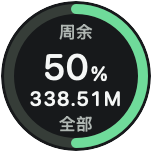
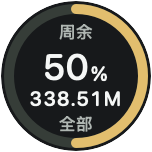
Add quota-dependent colors to the floating arc

Changed region(s): [[0.4474, 0.0263, 0.9737, 0.9737]]

diff --git a/Sources/Capsule.swift b/Sources/Capsule.swift
@@ -8,6 +8,41 @@ enum CapsuleTheme: String, CaseIterable {
     }
 }
 
+/// Approved dark/light quota colors, interpolated across the remaining fraction.
+/// Fixed stops are shared; drawing uses the existing bounded level animation.
+enum CapsuleQuotaColors {
+    private struct Stop {
+        let fraction: CGFloat
+        let red, green, blue: CGFloat
+        init(_ fraction: CGFloat, _ hex: UInt32) {
+            self.fraction = fraction
+            red = CGFloat((hex >> 16) & 255) / 255
+            green = CGFloat((hex >> 8) & 255) / 255
+            blue = CGFloat(hex & 255) / 255
+        }
+    }
+    private static let dark = [Stop(0.05, 0xEA6565), Stop(0.10, 0xEE786E),
+        Stop(0.25, 0xF09858), Stop(0.50, 0xE9BC60), Stop(0.75, 0xA5D76D), Stop(1, 0x35DE94)]
+    private static let light = [Stop(0.05, 0xD4474F), Stop(0.10, 0xD76053),
+        Stop(0.25, 0xC97432), Stop(0.50, 0xAF811B), Stop(0.75, 0x708F30), Stop(1, 0x009E68)]
+
+    static func color(for fraction: CGFloat, theme: CapsuleTheme) -> NSColor {
+        let stops = theme == .light ? light : dark
+        let value = fraction.isFinite ? min(1, max(0, fraction)) : 0
+        var lower = stops[0]
+        for upper in stops.dropFirst() {
+            if value <= upper.fraction {
+                let t = min(1, max(0, (value - lower.fraction) / (upper.fraction - lower.fraction)))
+                return NSColor(srgbRed: lower.red + (upper.red - lower.red) * t,
+                    green: lower.green + (upper.green - lower.green) * t,
+                    blue: lower.blue + (upper.blue - lower.blue) * t, alpha: 1)
+            }
+            lower = upper
+        }
+        return NSColor(srgbRed: lower.red, green: lower.green, blue: lower.blue, alpha: 1)
+    }
+}
+
 /// Only display values live here: no hidden controls, layout tree or history rows.
 final class CapsuleState {
     var changed: (() -> Void)?
@@ -96,18 +131,18 @@ final class CapsuleSurface: NSView {
     private var tracking: NSTrackingArea?
     private var accessibleActions: [String: CapsuleAction] = [:]
     private struct Palette {
-        let background, primary, secondary, accent, ring, track, border: NSColor
-        init(_ background: UInt32, _ primary: UInt32, _ secondary: UInt32, _ accent: UInt32, _ ring: UInt32, _ track: UInt32, _ border: UInt32) {
+        let background, primary, secondary, accent, track, border: NSColor
+        init(_ background: UInt32, _ primary: UInt32, _ secondary: UInt32, _ accent: UInt32, _ track: UInt32, _ border: UInt32) {
             func color(_ hex: UInt32) -> NSColor {
                 NSColor(srgbRed: CGFloat((hex >> 16) & 255) / 255, green: CGFloat((hex >> 8) & 255) / 255, blue: CGFloat(hex & 255) / 255, alpha: 1)
             }
             self.background = color(background); self.primary = color(primary)
             self.secondary = color(secondary); self.accent = color(accent)
-            self.ring = color(ring); self.track = color(track); self.border = color(border)
+            self.track = color(track); self.border = color(border)
         }
     }
-    private static let darkPalette = Palette(0x17191B, 0xF5F7F6, 0xADB6B2, 0x57E6B2, 0x35DE94, 0x343D38, 0x343A37)
-    private static let lightPalette = Palette(0xF5F5F2, 0x202823, 0x626C67, 0x047857, 0x009E68, 0xDCE3DD, 0xD6DDD7)
+    private static let darkPalette = Palette(0x17191B, 0xF5F7F6, 0xADB6B2, 0x57E6B2, 0x343D38, 0x343A37)
+    private static let lightPalette = Palette(0xF5F5F2, 0x202823, 0x626C67, 0x047857, 0xDCE3DD, 0xD6DDD7)
     private var palette: Palette { state.theme == .light ? Self.lightPalette : Self.darkPalette }
     private var mint: NSColor { palette.accent }
     private var ink: NSColor { palette.primary }
@@ -405,7 +440,7 @@ final class CapsuleSurface: NSView {
             let remaining = NSBezierPath()
             remaining.appendArc(withCenter: center, radius: radius, startAngle: -90, endAngle: -90 + 360 * fraction, clockwise: false)
             remaining.lineWidth = 5; remaining.lineCapStyle = .round
-            palette.ring.setStroke(); remaining.stroke()
+            CapsuleQuotaColors.color(for: fraction, theme: state.theme).setStroke(); remaining.stroke()
         }
         let name = state.quotaName == "剩余额度" ? "额度" : state.quotaName.replacingOccurrences(of: "剩余", with: "余")
         text(name, NSRect(x: center.x - 23, y: 11, width: 46, height: 13), size: 8.5, color: secondary, weight: .medium, alignment: .center)

diff --git a/docs/VALIDATION.md b/docs/VALIDATION.md
@@ -1,8 +1,21 @@
-# v1.0.0 验证范围
+# 验证范围
 
 这是公开的验证摘要，未包含个人用量明细、账号信息、任务记录或原始实验日志。验证环境为 Apple Silicon / macOS 26.5；运行组件为 CPython 3.12.14。
 
-## 自动化与发行检查
+## 未发布：额度弧线配色 — 2026-09-11
+
+以下结果针对配色源码提交 `f92dcec`，对应 [PR #3](https://github.com/Asher-XunZhang/codex-usage/pull/3)，尚未包含在 v1.0.0 下载包中。
+
+- 项目现有 `python -E -s -B test.py`：160 项，158 项通过，2 项平台限定跳过，耗时 41.360 秒。
+- 使用真实 `CapsuleSurface` 和固定演示数据生成深浅主题 100/75/50/25/10/5% 对照图，与确认稿逐字节一致。README 的 50% 示意图也从当前源码重新生成。
+- 本机一次性离屏检查：20,000 个额度采样颜色连续、分量有效；实际绘制检查覆盖色点、0%、未知、非有限值和越界额度；400 次主题切换保留原窗口与视图，未触发额度动画。这些专项检查与上面的 160 项测试分别计数。
+- Apple Silicon / Intel 通用构建及严格递归签名检查通过；本机安装后检查深浅主题、展开/收起和数据刷新。以上结果不代表实体 Intel Mac 验收。
+
+配色的具体色值与边界见 [架构说明](ARCHITECTURE.md#额度弧线配色)，文档示意图的生成方式见 [本地验证工具](DEVELOPMENT-TOOLS.md#离屏界面预览)。此次文档补充检查图片、链接和配色表，沿用上述代码验证结果，不重新操作未改动功能。下方内存数据属于 v1.0.0 开发阶段的历史观察，不是这次配色更新的内存测量。
+
+## v1.0.0 历史验证
+
+### 自动化与发行检查
 
 发布前在整理后的源码目录运行 `python3 test.py`。测试涵盖 Token 解析与去重、磁盘索引、刷新合并与信号退出、额度解析、图表悬停、鼠标交互、浮窗独立筛选、主题切换、菜单栏定位、主面板进程隔离、设置同步、可选 Stop hook，以及运行组件下载与发行包防误打包。
 
@@ -12,7 +25,7 @@ Apple Silicon 与 Intel 两种架构均重新编译并通过嵌套 App 签名校
 
 界面测试包含抽取真实方法后编译执行的测试和离屏 AppKit 测试，不等同于所有操作系统上的端到端测试。两个仅适用于 Windows 的解析分支测试会在 macOS 跳过。
 
-## 本机交互验收
+### 本机交互验收
 
 在本次发布整理之前，同一套有效界面和后端源码已完成本机安装与交互验收：
 
@@ -26,7 +39,7 @@ Apple Silicon 与 Intel 两种架构均重新编译并通过嵌套 App 签名校
 
 源码整理移除了废弃控制器与旧测试，未改变以上有效产品逻辑。可重复的本机脚本和合成图片随源码提供，原始个人实验文件不公开分发。
 
-## 内存观察
+### 内存观察
 
 以下是本次开发期间的 **physical footprint** 采样，单位 MiB，并非 `ps` 的 RSS。自动刷新关闭；额度查询仍可能短时启动独立进程。结果依赖图形缓存、交互历史、日志规模及系统环境。
 
@@ -44,7 +57,7 @@ Apple Silicon 与 Intel 两种架构均重新编译并通过嵌套 App 签名校
 
 因此保留稳定常驻 GUI + 按需独立主面板的设计；菜单栏/浮窗没有闲置常驻 Python。系统图形和字体缓存仍有成本，不能保证任意机器、任意交互后都低于 10 MB。
 
-## 尚未覆盖
+### 尚未覆盖
 
 - 实体 Intel Mac、所有 macOS 11–26 版本及不同企业管理策略的完整安装验收。
 - Developer ID 签名、Apple 公证和真实互联网下载后的所有 Gatekeeper 场景。

diff --git a/docs/ARCHITECTURE.md b/docs/ARCHITECTURE.md
@@ -33,6 +33,29 @@ flowchart LR
 
 拆分的收益是主面板退出能彻底归还自身缓存，且不打断菜单栏与浮窗。代价是主面板打开时多一个 GUI 进程，需要同步偏好、动作和扫描所有权。宿主的 AppKit 字体、菜单和图形缓存仍可能驻留；不以重启宿主来换取每次收起后的低读数。
 
+## 额度弧线配色
+
+此节描述尚未发布的源码更新；v1.0.0 发行包使用固定绿色弧线。实现位于 [`Sources/Capsule.swift`](../Sources/Capsule.swift) 的 `CapsuleQuotaColors` 与 `drawOrb()`，作用于浮窗收起时的额度圆弧。
+
+弧长与颜色使用同一个剩余额度比例。整段剩余弧线只有一种颜色，随额度变化在下表相邻色点之间对 sRGB 分量作线性插值。例如 62.5% 位于 75% 和 50% 两种颜色之间，经过色点时连续过渡。两种主题的色点如下：
+
+| 剩余额度 | 颜色 | 深色主题 | 浅色主题 |
+| --- | --- | --- | --- |
+| 100% | 翡翠绿 | `#35DE94` | `#009E68` |
+| 75% | 黄绿色 | `#A5D76D` | `#708F30` |
+| 50% | 琥珀色 | `#E9BC60` | `#AF811B` |
+| 25% | 暖橙色 | `#F09858` | `#C97432` |
+| 10% | 珊瑚红 | `#EE786E` | `#D76053` |
+| 5% | 警示红 | `#EA6565` | `#D4474F` |
+
+深色主题使用较明亮的颜色，浅色主题加深色值以保持辨识度。弧线表示当前「周余」等标签所指的账号额度；Token 数值仍由独立的时间、模型和任务筛选决定，不能用 Token 数量反推额度百分比。
+
+- `0 < 剩余额度 ≤ 5%` 时保持警示红；0% 不绘制剩余弧线，只显示中性底环与 `0%`。
+- 缺失或非有限额度显示「—」与中性底环；有限但越界的比例限制在 0–100%。
+- 旧快照沿用该快照的颜色，并在数值后保留 `*` 标记。颜色不代表数据已经刷新。
+
+两组色点各初始化一次。实际额度改变时，颜色读取现有 0.22 秒动画中的 `liquidFraction`，与弧长同步；没有新增闲置计时器或循环动画。浮窗隐藏、已展开或系统启用「减少动态效果」时，额度直接更新。主题切换继续复用同一个窗口和绘制视图。此变更没有重新测量整机内存，不能由色点数量推导完整应用的内存占用。
+
 ## 数据与权限
 
 GUI 从聚合索引读取 Token 统计；账户额度由短时助手通过官方 Codex app-server 的固定只读方法取得。代码没有重置卡兑换动作。主面板 HTTP 服务仅监听 loopback，使用实例标识隔离请求，退出时清理自己的状态与进程。

diff --git a/README.md b/README.md
@@ -27,11 +27,11 @@ A native macOS companion for recorded Codex tokens and account quota. Local stat
 
 - **主面板**：今天、7/30/90 天或全部时间；按模型和任务筛选，查看输入、输出、缓存和调用次数；柱状图悬停显示精确数值，可搜索、排序、导出 CSV。
 - **菜单栏**：快速查看今日 Token 与剩余额度。单击展开菜单，双击打开主面板；点击其它位置关闭菜单。
-- **圆形浮窗**：76×76 的扁平圆环，5 点宽的绿色弧线表示剩余额度。悬停立即展开详情，移开立即开始收起；支持深色/浅色、置顶、拖动，以及独立的时间、模型、任务筛选。
+- **圆形浮窗**：76×76 的扁平圆环，5 点宽的弧线表示剩余额度。悬停立即展开详情，移开立即开始收起；支持深色/浅色、置顶、拖动，以及独立的时间、模型、任务筛选。
 
 <p>
-  <img src="docs/images/compact-dark-50.png" width="96" alt="深色圆形浮窗，演示数据">
-  <img src="docs/images/compact-light-50.png" width="96" alt="浅色圆形浮窗，演示数据">
+  <img src="docs/images/compact-dark-50.png" width="96" alt="深色圆形浮窗，50% 剩余额度为琥珀色，演示数据">
+  <img src="docs/images/compact-light-50.png" width="96" alt="浅色圆形浮窗，50% 剩余额度为琥珀色，演示数据">
 </p>
 <p>
   <img src="docs/images/expanded-dark.png" width="300" alt="深色详情，演示数据">
@@ -39,6 +39,10 @@ A native macOS companion for recorded Codex tokens and account quota. Local stat
 </p>
 
 以上图片由真实绘制组件生成，使用固定演示数据，不代表某个账号的额度或记录。
+
+当前源码中，收起弧线随剩余额度降低，由绿经过黄、橙平滑转为红色。整段剩余弧线使用同一种颜色；5% 及以下为警示红，0% 只保留底环，未知额度显示「—」。弧线对应上方「周余」等标签所指的账号额度，与下方筛选后的 Token 数量分别显示。深浅主题的色值和边界规则见 [额度弧线配色](docs/ARCHITECTURE.md#额度弧线配色)。
+
+这项配色属于 [尚未发布的更新](CHANGELOG.md#unreleased)，上方收起示意图展示的是更新后的源码效果；现有 v1.0.0 下载包仍使用固定绿色弧线。
 
 浮窗数字区左键打开主面板；右键或 Control-click 打开功能菜单；按住数字区移动超过 3 点时只拖动。选择菜单打开期间暂缓收起，可手动保持展开。动画遵循系统「减少动态效果」设置。
 

diff --git a/docs/DEVELOPMENT-TOOLS.md b/docs/DEVELOPMENT-TOOLS.md
@@ -15,6 +15,16 @@ python3 scripts/render_previews.py --source Sources/Capsule.swift --output .loca
 
 这套预览验证绘制布局；真实鼠标事件、窗口层级与系统菜单仍需单独验证。
 
+README 的两张收起浮窗示意图取自上述输出。更新额度配色后，在仓库根目录执行以下命令同步图片；50% 应显示为对应主题的琥珀色：
+
+```sh
+python3 scripts/render_previews.py --output .local/previews
+cp .local/previews/compact-dark-50.png docs/images/compact-dark-50.png
+cp .local/previews/compact-light-50.png docs/images/compact-light-50.png
+```
+
+发布文档前检查两张图和相对链接即可；仅补充说明或替换示意图时，沿用已有代码测试结果，不需要启动已安装应用或重测无关功能。
+
 ## 已运行应用的内存采样
 
 ```sh

diff --git a/CHANGELOG.md b/CHANGELOG.md
@@ -1,5 +1,11 @@
 # Changelog
 
+## Unreleased
+
+- 收起浮窗的剩余额度弧线随额度降低，从绿经过黄、橙连续转为红色，深浅主题分别适配配色。
+- 5% 及以下保持警示红；0% 只保留中性底环，未知额度显示「—」。颜色复用现有额度动画，不增加常驻计时器。
+- 更新浮窗示意图、配色说明与验证记录。此功能尚未包含在 v1.0.0 发行包中。
+
 ## 1.0.0 — 2026-09-11
 
 首次公开源码与双架构 macOS 发行包。
